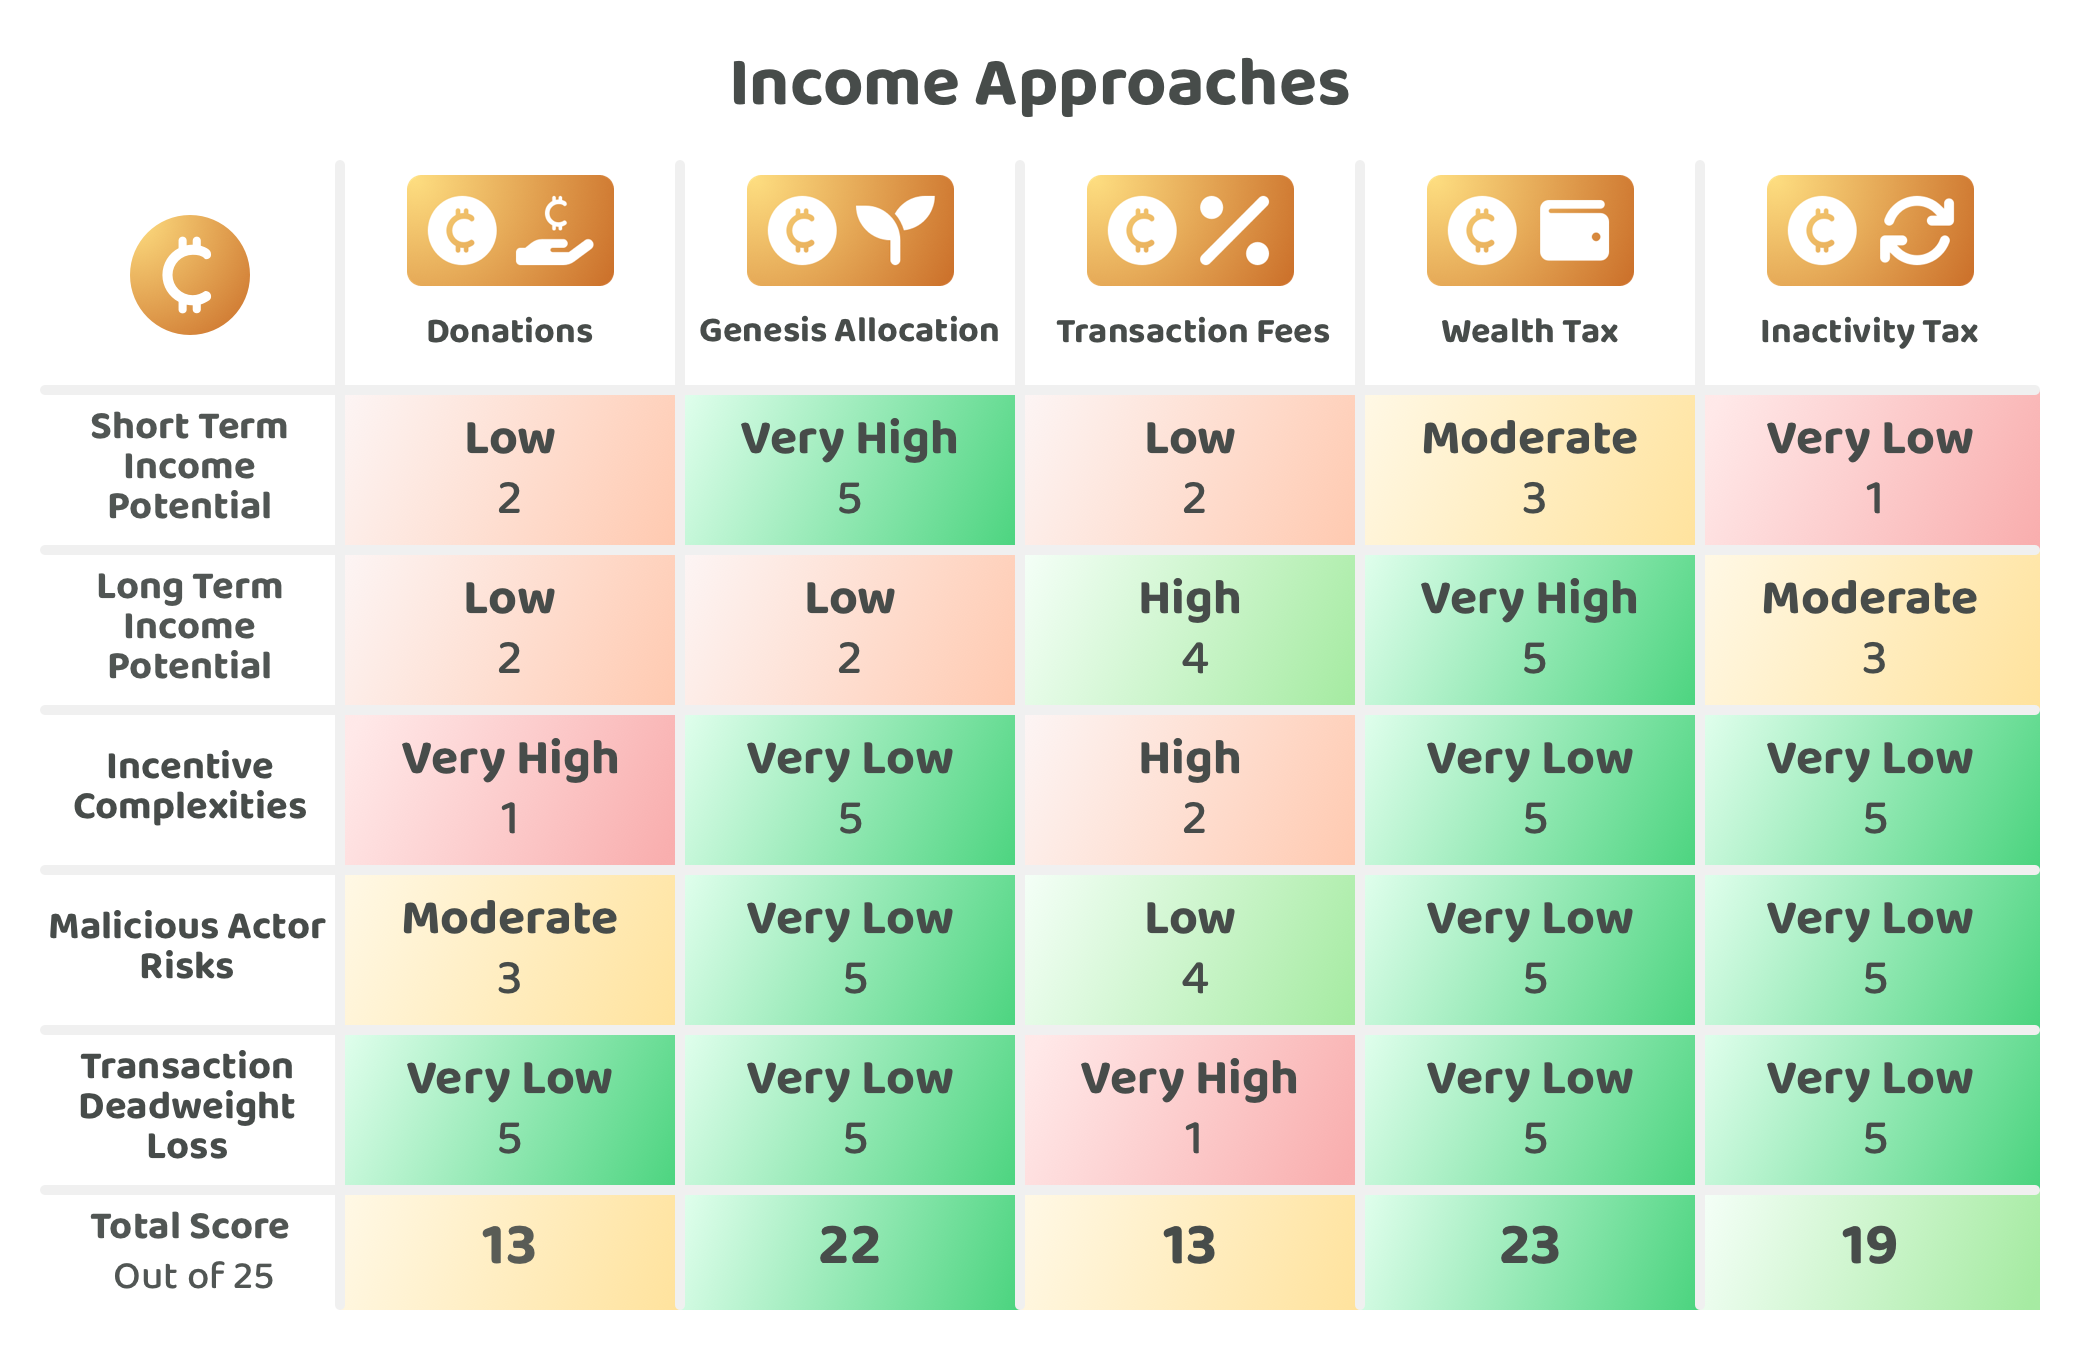
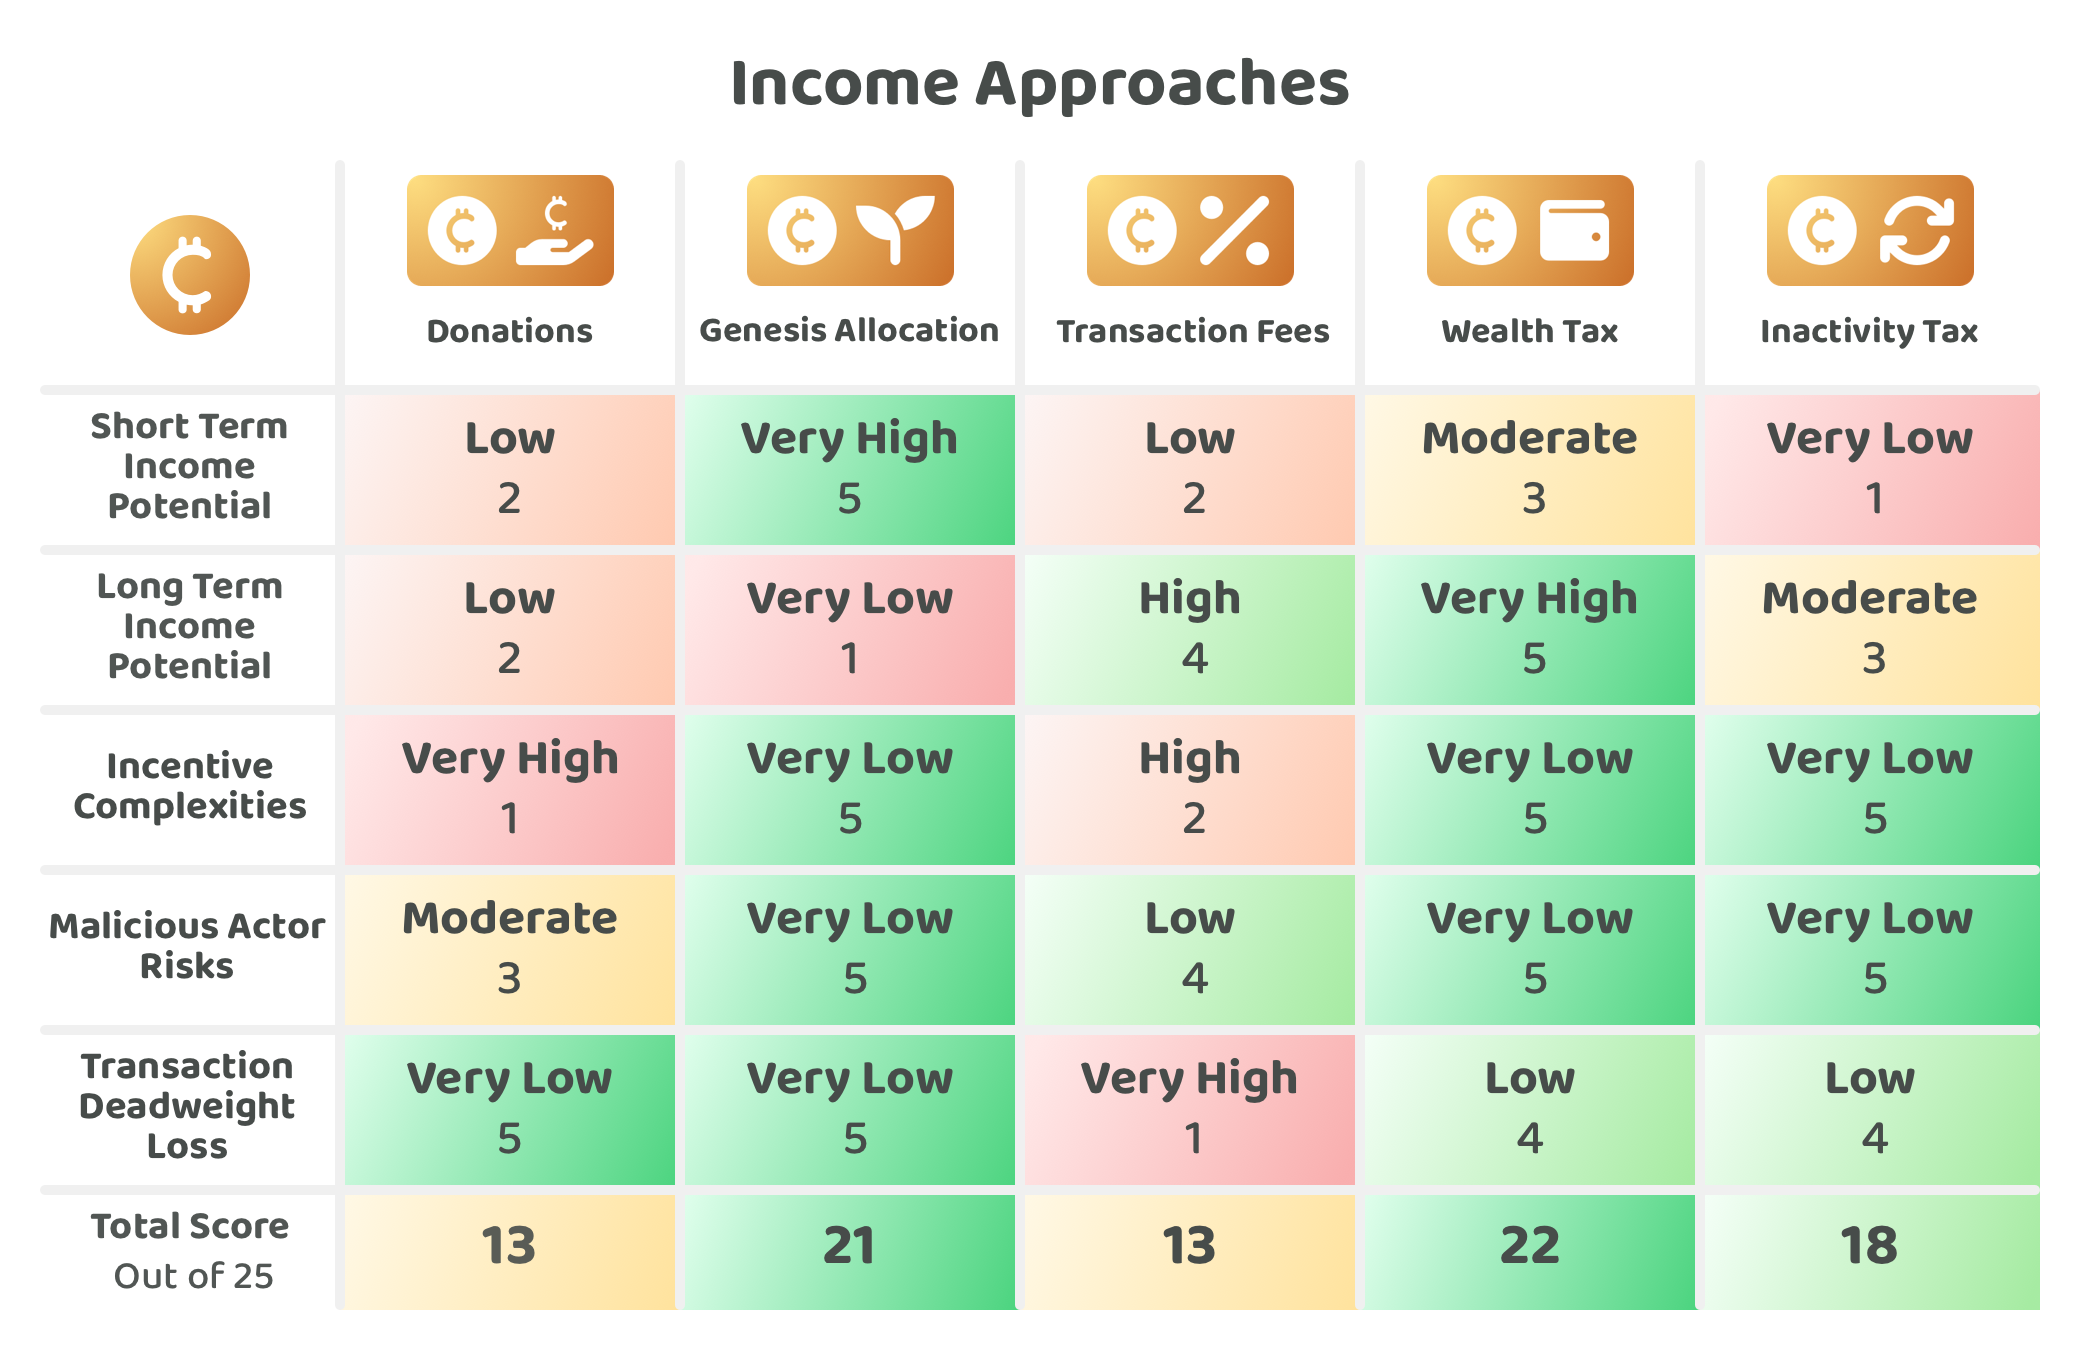
GITBOOK-20: No subject

Changed region(s): [[0.6562, 0.7467, 1.0, 0.9333], [0.3438, 0.4044, 0.5, 0.5289], [0.4062, 0.9022, 0.4375, 0.9333]]

diff --git a/approaches/income-approaches/reusing-inactive-assets.md b/approaches/income-approaches/reusing-inactive-assets.md
@@ -4,40 +4,42 @@ description: >-
   for the treasury
 ---
 
-# Reusing inactive assets
+# Inactivity tax
 
-<div align="left">
+<div align="left"><figure><img src="../../.gitbook/assets/income-reusing-inactive-assets.png" alt="" width="225"><figcaption></figcaption></figure></div>
 
-<figure><img src="../../.gitbook/assets/income-reusing-inactive-assets.png" alt="" width="225"><figcaption></figcaption></figure>
-
-</div>
-
-After a long period of inactivity the assets in a wallet could be taxed and reused as a form of income for the ecosystems treasury. This income could pay for network operation costs and other ecosystem initiatives. This income approach could be effective at preventing the accumulation of deadweight assets that make a network deflationary over time due to people losing access to their wallets due to lost passwords or when people pass away and don’t set up any process for their family to claim their assets. Reusing inactive assets could help with ensuring that the total supply of coins available in an ecosystem is always eventually active by preventing these assets from becoming lost over the long term. An ecosystem could adopt any length of time before this taxation starts to occur and could also make it happen gradually or suddenly. There are a number of approaches that could be used by a network that wants to reuse its inactive assets. As some examples, one ecosystem might decide to remove all of the assets from an inactive wallet after 10 years of inactivity whereas another ecosystem might decide to tax 5% of the assets in a dormant wallet each year after 5 years of inactivity.
+After long periods of inactivity a wallet could be taxed and the coins that get collected could be reused as a form of income for the ecosystem's treasury. This income approach could be effective at preventing the accumulation of deadweight assets that make a network deflationary over time due to people losing access to their wallets. This can happen due to lost passwords or when people pass away and don’t set up any process for their family to claim their assets. Reusing the inactive network coins could help with ensuring that the total supply of coins is always eventually available in the ecosystem. An ecosystem will need to decide what length of time makes sense before this taxation starts to occur and whether the taxation amount should be a fixed amount or progressively increase over time. There are a number of approaches that could be used. One ecosystem might decide to remove all of the assets from an inactive wallet after 10 years of inactivity whereas another ecosystem might decide to tax 1, 5 or 10 coins in any dormant wallet each and every year after 5 years of inactivity.
 
 
 
 **Very low short term income potential (Score - 1)**
 
-Reusing inactive assets requires the assets to be dormant for a moderate to long period of time. This means this approach would not be very useful for generating short term treasury income.
+Reusing inactive coins means the wallets need to be inactive for a moderate to long period of time. This means that this approach would not be very useful for generating any income in the short term.
 
 
 
-**High long term income potential (Score - 4)**
+**Moderate long term income potential (Score - 3)**
 
-As the ecosystem grows there could be an increasing number of users that lose access to their wallets due to forgetting their password or due to someone passing away that hasn’t given any relatives or friends the ability to access their assets. As the number of these types of events grow over time there is an increased probability that a stream of income could be generated for the ecosystem treasury. The amount of income generated from this approach could be limited as an increasing number of solutions would likely emerge to ensure someones assets never get lost due to the use of back up solutions and multi-signature approaches that could give family and friends better access to any soon to be dormant assets. Even if these solutions do emerge this approach could still be an effective supplementary approach to generate income for the ecosystems treasury that also can help with preventing assets from becoming lost and unusable over time.
-
-
-
-**Low incentive complexities (Score - 4)**
-
-There is low incentive complexity regarding how the income is generated when reusing inactive assets. The wallet is provably dormant and the assets have not been used for a long period of time. Once any assets are reclaimed they could be used by a community to support any ecosystem initiative that help with improving and maintaining the ecosystem. The only main incentive complexities that exist would be around whether the founding entities still have control over the treasury and how those funds would be disbursed.
+As the ecosystem grows there could be an increasing number of users that lose access to their wallets due to forgetting their password or due to someone passing away that hasn’t given any relatives or friends the ability to access their assets. As the number of these types of events grow over time there is an increased probability that a stream of income could be generated. The amount of income generated from this approach could be limited as an increasing number of solutions could emerge that ensure someone's assets never get lost due to the use of backup solutions and multi-signature approaches that could give family and friends better access to any lost or dormant assets. Even if these solutions do emerge this approach could still be an effective supplementary approach to generate income and it can also help with preventing coins from becoming increasingly lost and unusable over time.
 
 
 
-**Very low game theory risks (Score - 5)**
+**Very low incentive complexities (Score - 5)**
 
-The wallets that are inactive and end up having their assets reclaimed by the network would have no increased influence over how assets get disbursed. Similarly this income approach wouldn’t increase the amount of influence that any other community members has over the collection or allocation of that income. No immediately obvious game theory risks exist for this income approach. The community would need to govern the changes made to any of the parameters involved in how often and how much is claimed from dormant and inactive wallets.
+There is low income generating complexity regarding when inactive coins are taxed. The wallet is provably dormant and the assets have not been used for a long period of time.
 
 
 
-**Total score = 14 / 20**
+**Very low malicious actor risks (Score - 5)**
+
+The wallets that are inactive and end up having their assets reclaimed by the network would have no increased influence over how assets get disbursed or if they did it would only be proportional to the tax that they have contributed. There is no incentive for bad actors to leave wallets dormant so this income approach doesn’t create any obvious malicious actor risks to be concerned with. The only main area of concern is ensuring the community is actively involved in any decisions about changing the parameters that are used that determine when and how much is collected from inactive wallets.
+
+
+
+**Low transaction deadweight loss (Score - 4)**
+
+Inactive wallets would not be creating transactions and this income approach would be incentivising them to use the wallet and create transactions rather than the opposite. This income approach should help with generating new transactions rather than them being sat idle in an unused account. If the parameters of the taxation meant that the tax happened too soon it could cause some deadweight loss if it means people avoided the network due to that parameter choice.
+
+
+
+**Total score = 18 / 25**

diff --git a/approaches/income-approaches/wealth-tax.md b/approaches/income-approaches/wealth-tax.md
@@ -36,10 +36,10 @@ Everyone pays the same proportional tax amount based on the amount of coins they
 
 
 
-**Very low transaction deadweight loss (Score - 5)**
+**Low transaction deadweight loss (Score - 4)**
 
-Fees are not added to transactions and the tax that gets collected from accounts and contracts could even be used to subsidise the node operators. So this approach could lead to even more transactions rather than less as it could make the network even more competitive against other ecosystems.
+Adding a wealth tax or increasing a wealth tax could result in people deciding to avoid the network due to the tax. This in itself could mean a reduced amount of transaction volume. The wealth tax doesn't necessarily get charged to people if they use the network and immediately use all of their coins for exchange or investment. The impact on the end user is minimal over short periods, such as usage for a few days or weeks. The counter argument is that the wealth tax could be used to subsidise the node operators and mean a reduction in transaction fees. This could have a positive impact on transaction volume. So an increase in wealth tax could actually lead to an increase in transaction volume rather than less. Situations where this tax could more likely cause deadweight loss is if the wealth tax was too high and people avoided the network entirely.
 
 
 
-**Total score = 23 / 25**
+**Total score = 22 / 25**

diff --git a/approaches/income-approaches/genesis-allocation.md b/approaches/income-approaches/genesis-allocation.md
@@ -18,9 +18,9 @@ A genesis allocation of coins dedicated to supporting the ecosystem's developmen
 
 
 
-**Low long term income potential (Score - 2)**
+**Very low long term income potential (Score - 1)**
 
-A genesis allocation does not provide an ongoing and reliable income stream for the ecosystem's treasury. The genesis allocation of treasury assets could have a long term impact if they are slowly used over time. Some ecosystems might have the ability to stake their assets or use DeFi protocols to better maintain the value of the remaining assets over a longer time period. This approach could be effective for some ecosystems over the medium to long term but it might be difficult to push an active treasury management responsibility over to a large community.
+A genesis allocation does not provide any future income streams for the ecosystem's treasury. The genesis allocation of treasury assets could have a long term impact if they are slowly used over time however this approach does not generate future income.
 
 
 
@@ -42,4 +42,4 @@ The allocated genesis coins for the treasury are already pre-determined prior to
 
 
 
-**Total score = 22 / 25**
+**Total score = 21 / 25**
